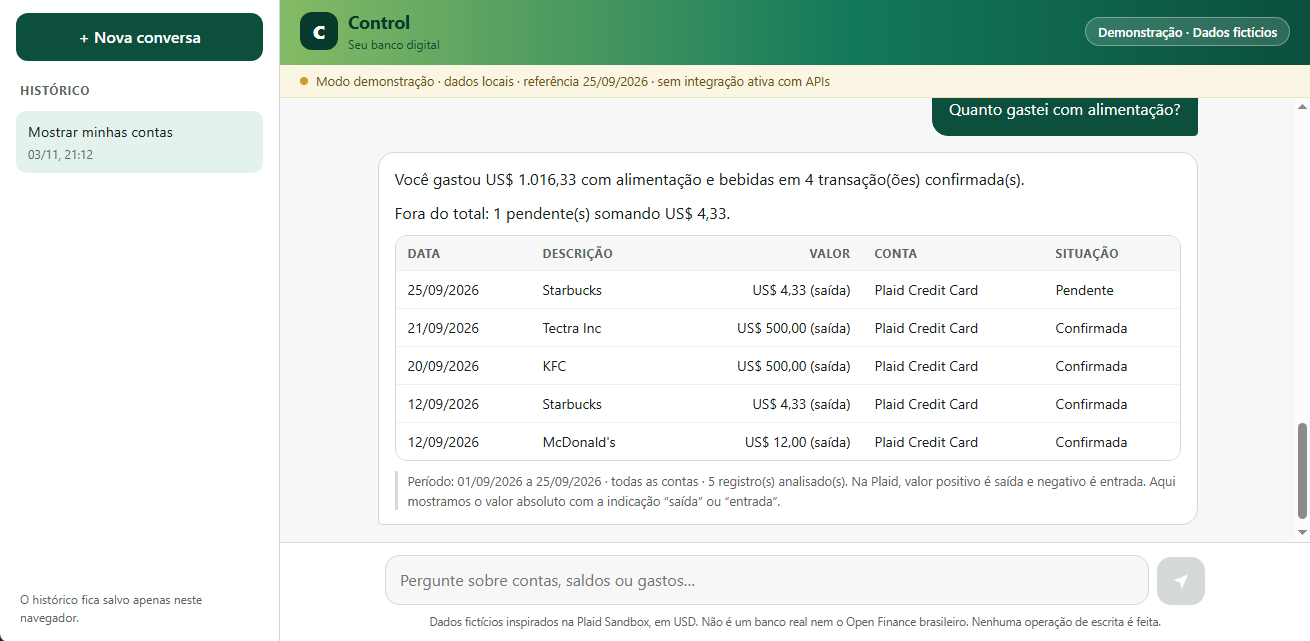
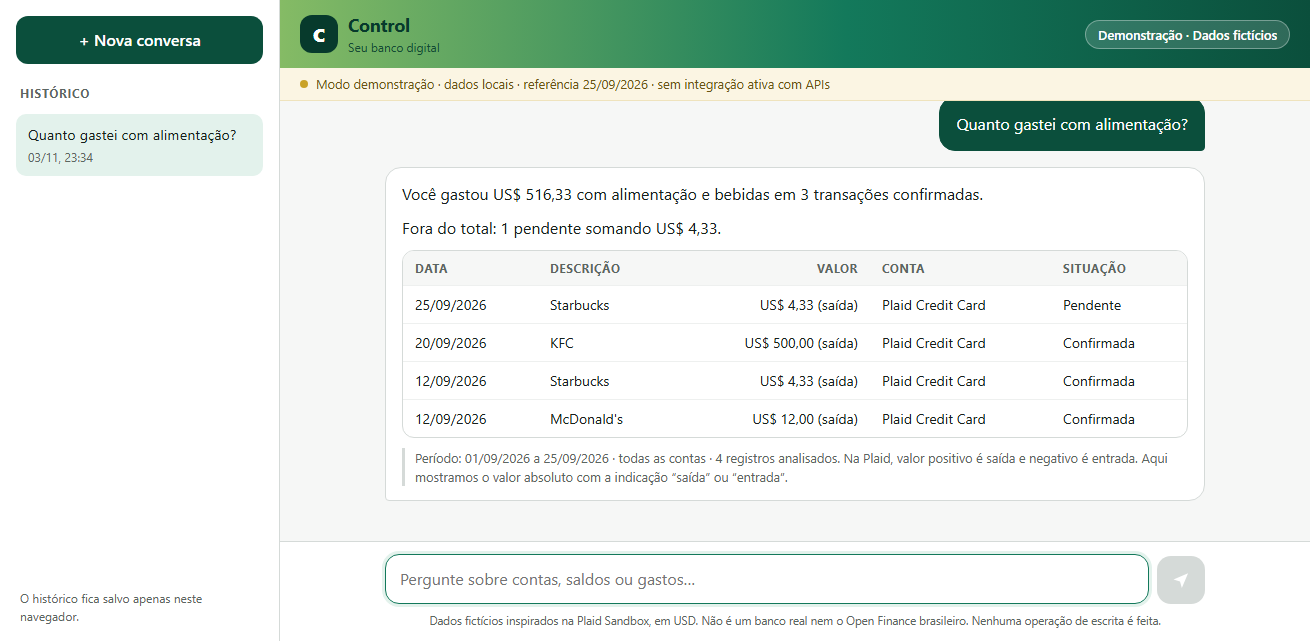
Tectra Inc como aluguel e contas (igual à Plaid real); alimentação passa a US$ 516,33
- Amostra, testes, especificação do Lovable e README atualizados
- Especificação proíbe pedir chaves da Plaid na Etapa 1
- Novos prints: app-04 refeito, app-06 (consumo separado), app-07 (termo desconhecido)

diff --git a/src/data/sample.ts b/src/data/sample.ts
@@ -22,7 +22,7 @@ export const sampleDataset: Dataset = {
   transactions: [
     { id: "t17", accountId: "cc", date: "2026-09-25", description: "Starbucks", amount: 4.33, currency: "USD", category: "FOOD_AND_DRINK", pending: true },
     { id: "t01", accountId: "chk", date: "2026-09-24", description: "Uber 072515 SF**POOL**", amount: 6.33, currency: "USD", category: "TRANSPORTATION", pending: false },
-    { id: "t02", accountId: "cc", date: "2026-09-21", description: "Tectra Inc", amount: 500, currency: "USD", category: "FOOD_AND_DRINK", pending: false },
+    { id: "t02", accountId: "cc", date: "2026-09-21", description: "Tectra Inc", amount: 500, currency: "USD", category: "RENT_AND_UTILITIES", pending: false },
     { id: "t03", accountId: "cc", date: "2026-09-20", description: "AUTOMATIC PAYMENT - THANK", amount: 2078.5, currency: "USD", category: "LOAN_PAYMENTS", pending: false },
     { id: "t04", accountId: "cc", date: "2026-09-20", description: "KFC", amount: 500, currency: "USD", category: "FOOD_AND_DRINK", pending: false },
     { id: "t05", accountId: "cc", date: "2026-09-20", description: "Madison Bicycle Shop", amount: 500, currency: "USD", category: "GENERAL_MERCHANDISE", pending: false },

diff --git a/src/engine/answer.test.ts b/src/engine/answer.test.ts
@@ -26,8 +26,8 @@ describe("cálculos coerentes com a amostra", () => {
 
   it("soma alimentação só com confirmadas e deixa a pendente fora", () => {
     const t = text(answer("Quanto gastei com alimentação?", ds));
-    expect(t).toContain("US$ 1.016,33");
-    expect(t).toContain("4 transações confirmadas");
+    expect(t).toContain("US$ 516,33");
+    expect(t).toContain("3 transações confirmadas");
     expect(t).toContain("1 pendente somando US$ 4,33");
   });
 

diff --git a/src/engine/answer.ts b/src/engine/answer.ts
@@ -120,6 +120,7 @@ const CATEGORY_KEYWORDS: [string, RegExp][] = [
   ["GENERAL_MERCHANDISE", /mercadoria|loja|bicicleta|eletronic/],
   ["PERSONAL_CARE", /cuidado|academia|escalada|bem-estar|bem estar/],
   ["LOAN_PAYMENTS", /emprestimo|fatura|pagamento(s)? de (divida|cartao)|dividas pagas/],
+  ["RENT_AND_UTILITIES", /aluguel|moradia|condominio|energia eletrica|conta de luz/],
   ["TRANSFER_OUT", /transferencia/],
   ["INCOME", /renda|salario|entrada|juros|receb/],
 ];

diff --git a/docs/lovable-spec.md b/docs/lovable-spec.md
@@ -44,7 +44,7 @@ Preservar USD quando essa for a moeda recebida, no formato "US$ 110,00". Não co
 
 ## Etapa 1: frontend demonstrável
 
-Entregar primeiro uma interface funcional com dados locais fictícios, sem pedir credenciais. Identificar o modo de demonstração e a data de referência. Usar uma amostra pequena e coerente, com os cálculos feitos sobre essa mesma amostra.
+Entregar primeiro uma interface funcional com dados locais fictícios, sem pedir credenciais. **Nesta etapa não há integração com a Plaid: não peça `PLAID_CLIENT_ID`, `PLAID_SECRET` nem `access_token`, não crie conexão com Supabase/Edge Functions para a Plaid e não chame `sandbox.plaid.com`.** Todos os dados vêm da amostra abaixo, embutida no código. Identificar o modo de demonstração e a data de referência. Usar uma amostra pequena e coerente, com os cálculos feitos sobre essa mesma amostra.
 
 | Conta de exemplo | Saldo USD | Disponível USD |
 | --- | --- | --- |
@@ -59,7 +59,7 @@ Data de referência da amostra: **25/09/2026** ("hoje", "ontem" e "últimos N di
 | --- | --- | ---: | --- | --- | --- |
 | 25/09/2026 | Starbucks | 4,33 | Plaid Credit Card | FOOD_AND_DRINK | Pendente |
 | 24/09/2026 | Uber 072515 SF\*\*POOL\*\* | 6,33 | Plaid Checking | TRANSPORTATION | Confirmada |
-| 21/09/2026 | Tectra Inc | 500,00 | Plaid Credit Card | FOOD_AND_DRINK | Confirmada |
+| 21/09/2026 | Tectra Inc | 500,00 | Plaid Credit Card | RENT_AND_UTILITIES | Confirmada |
 | 20/09/2026 | AUTOMATIC PAYMENT - THANK | 2.078,50 | Plaid Credit Card | LOAN_PAYMENTS | Confirmada |
 | 20/09/2026 | KFC | 500,00 | Plaid Credit Card | FOOD_AND_DRINK | Confirmada |
 | 20/09/2026 | Madison Bicycle Shop | 500,00 | Plaid Credit Card | GENERAL_MERCHANDISE | Confirmada |
@@ -82,7 +82,7 @@ Não apresente a amostra como o conjunto completo consultado no ensaio (a consul
 | Pergunta | Resposta esperada |
 | --- | --- |
 | Consultar meus saldos | Dinheiro disponível US$ 300,00 · Dívida nos cartões US$ 5.430,00 · Limite disponível US$ 4.980,00 |
-| Quanto gastei com alimentação? | US$ 1.016,33 em 4 transações confirmadas; fora do total: 1 pendente somando US$ 4,33 |
+| Quanto gastei com alimentação? | US$ 516,33 em 3 transações confirmadas; fora do total: 1 pendente somando US$ 4,33 |
 | Resumir minhas movimentações | Consumo US$ 2.202,29 · Dívidas pagas e transferências US$ 3.103,50 · Entradas US$ 5.854,22 · Pendentes 1 (US$ 4,33) |
 | Quanto gastei com Uber? | US$ 18,06 em 3 transações confirmadas |
 | Quanto gastei na última semana? | Consumo US$ 1.506,33 (19 a 25/09); fatura de US$ 2.078,50 mostrada à parte |

diff --git a/README.md b/README.md
@@ -127,7 +127,7 @@ Lista completa em **[docs/evidencias/](docs/evidencias/)**.
 
 | Contas | Gasto com alimentação |
 | --- | --- |
-| ![Saudação, sugestões e lista de contas](docs/evidencias/app-01-contas.png) | ![US$ 1.016,33 em 4 confirmadas, pendente fora do total](docs/evidencias/app-04-gasto-alimentacao.png) |
+| ![Saudação, sugestões e lista de contas](docs/evidencias/app-01-contas.png) | ![US$ 516,33 em 3 confirmadas, pendente fora do total](docs/evidencias/app-04-gasto-alimentacao.png) |
 
 | Lista de contas | Últimas transações |
 | --- | --- |
@@ -137,7 +137,11 @@ Lista completa em **[docs/evidencias/](docs/evidencias/)**.
 
 | Pergunta | Total e pendente | Tabela em cartões |
 | --- | --- | --- |
-| <img src="docs/evidencias/app-05-celular-1-pergunta.jpg" width="220" alt="Saudação, sugestões e pergunta no celular"> | <img src="docs/evidencias/app-05-celular-2-total.jpg" width="220" alt="US$ 1.016,33 com a pendente fora do total"> | <img src="docs/evidencias/app-05-celular-3-cartoes.jpg" width="220" alt="Transações empilhadas em cartões"> |
+| <img src="docs/evidencias/app-05-celular-1-pergunta.jpg" width="220" alt="Saudação, sugestões e pergunta no celular"> | <img src="docs/evidencias/app-05-celular-2-total.jpg" width="220" alt="Pendente fora do total (print anterior à correção da Tectra)"> | <img src="docs/evidencias/app-05-celular-3-cartoes.jpg" width="220" alt="Transações empilhadas em cartões"> |
+
+| Consumo separado da fatura paga | Termo que não existe nos dados |
+| --- | --- |
+| ![Consumo US$ 2.202,29 separado de dívidas pagas e transferências](docs/evidencias/app-06-resumo-consumo.png) | ![Aviso de termo desconhecido com categorias válidas](docs/evidencias/app-07-termo-desconhecido.png) |
 
 ### Servidores MCP conectados
 
@@ -163,7 +167,7 @@ Demais telas (resumo, dinheiro, transações, observações) em [docs/evidencias
 
 ### Conferência
 
-O total de alimentação confere com a amostra: Tectra Inc (500,00) + KFC (500,00) + McDonald's (12,00) + Starbucks (4,33) = **US$ 1.016,33**. O Starbucks de 25/09 está pendente e aparece fora da soma.
+O total de alimentação confere com a amostra: KFC (500,00) + McDonald's (12,00) + Starbucks (4,33) = **US$ 516,33**. A Tectra Inc (US$ 500,00) é **aluguel e contas**, como na consulta real da Plaid (P07), e não entra em alimentação. O Starbucks de 25/09 está pendente e aparece fora da soma.
 
 ---
 

diff --git a/docs/evidencias/README.md b/docs/evidencias/README.md
@@ -9,10 +9,12 @@ Prints que comprovam cada etapa. Antes de salvar uma imagem aqui, confira que **
 | [app-01-contas.png](app-01-contas.png) | Saudação, sugestões clicáveis e "Mostrar minhas contas" |
 | [app-02-ultimas-transacoes.png](app-02-ultimas-transacoes.png) | Tabela das 4 contas e sugestões de continuação |
 | [app-03-tabela-transacoes.png](app-03-tabela-transacoes.png) | 5 transações mais recentes, com a pendente identificada e a nota sobre o sinal da Plaid |
-| [app-04-gasto-alimentacao.png](app-04-gasto-alimentacao.png) | "Quanto gastei com alimentação?": US$ 1.016,33 em 4 confirmadas, com a pendente fora do total |
+| [app-04-gasto-alimentacao.png](app-04-gasto-alimentacao.png) | "Quanto gastei com alimentação?": US$ 516,33 em 3 transações confirmadas, com a pendente fora do total (Tectra Inc é aluguel e contas, como na Plaid real) |
 | [app-05-celular-1-pergunta.jpg](app-05-celular-1-pergunta.jpg) | App publicado no Android: saudação, sugestões e a pergunta enviada |
-| [app-05-celular-2-total.jpg](app-05-celular-2-total.jpg) | Celular: total de US$ 1.016,33, pendente de US$ 4,33 fora da soma, tabela em cartões |
+| [app-05-celular-2-total.jpg](app-05-celular-2-total.jpg) | Celular: pendente de US$ 4,33 fora da soma e tabela em cartões. *Print anterior à correção da categoria da Tectra Inc (o total exibido, US$ 1.016,33, incluía a Tectra); o valor atual é US$ 516,33, ver app-04* |
 | [app-05-celular-3-cartoes.jpg](app-05-celular-3-cartoes.jpg) | Celular: restante das transações empilhadas em cartões |
+| [app-06-resumo-consumo.png](app-06-resumo-consumo.png) | Resumo com **consumo** (US$ 2.202,29) separado de **dívidas pagas e transferências** (US$ 3.103,50) |
+| [app-07-termo-desconhecido.png](app-07-termo-desconhecido.png) | "Quanto gastei com mercado?": avisa que o termo não existe e lista categorias e estabelecimentos válidos |
 
 ## Servidores MCP
 
